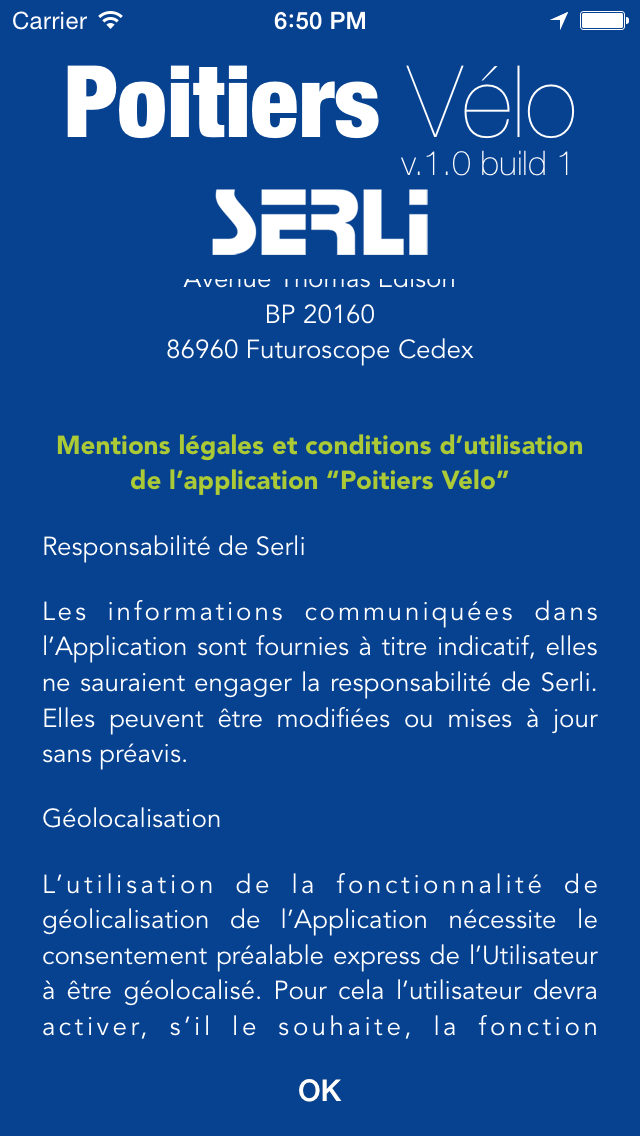
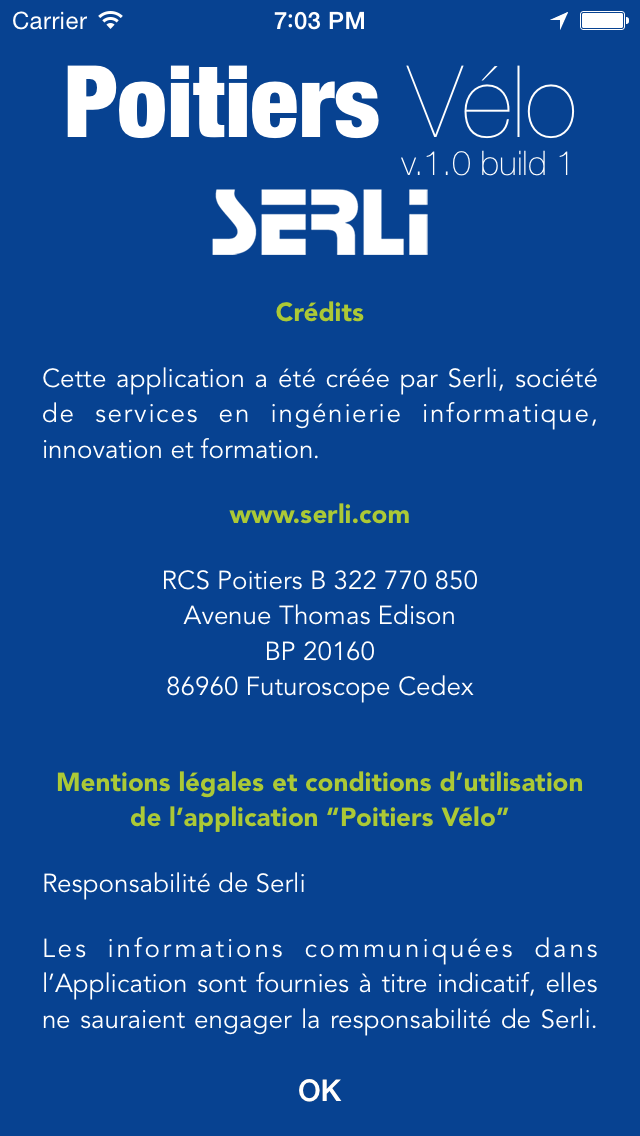
Correction du scroll par défaut du textview des infos

diff --git a/Abri Vélo Poitiers/InfoViewController.m b/Abri Vélo Poitiers/InfoViewController.m
@@ -30,17 +30,13 @@
     // Dispose of any resources that can be recreated.
 }
 
-- (void) viewWillAppear:(BOOL)animated {
-    [super viewWillAppear:animated];
-    
-}
-
 #pragma mark - Prepare view
 
 - (void) loadInfos {
     NSURL * rtfUrl = [[NSBundle mainBundle] URLForResource: @"infos" withExtension:@"rtf"];
     NSAttributedString * rtfFileContent = [[NSAttributedString alloc] initWithFileURL:rtfUrl options:@{NSDocumentTypeDocumentAttribute:NSRTFTextDocumentType} documentAttributes:nil error:nil];
     self.infoTextView.attributedText = rtfFileContent;
+    [self.infoTextView setContentOffset:CGPointMake(0, -1000) animated:YES];
 }
 
 - (void) updateVersion {
